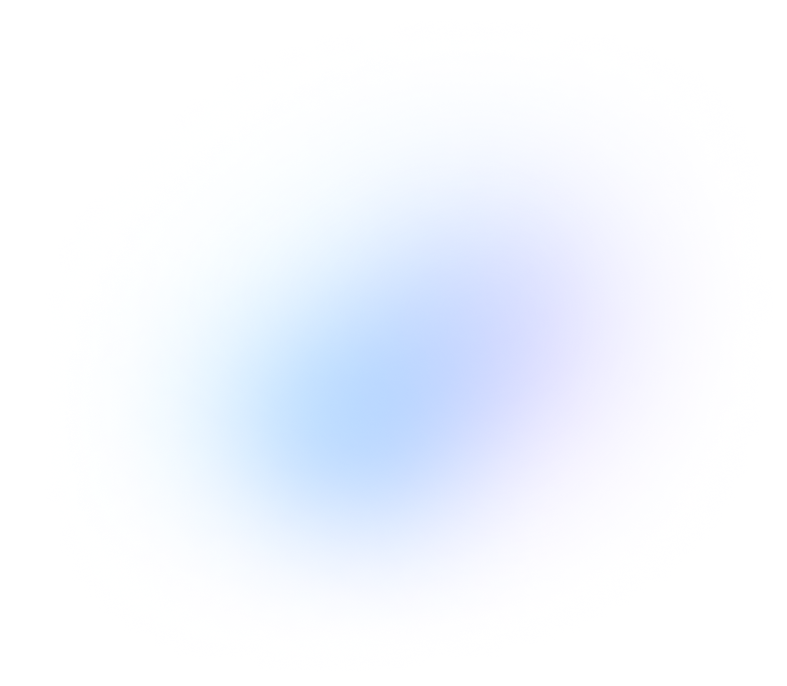
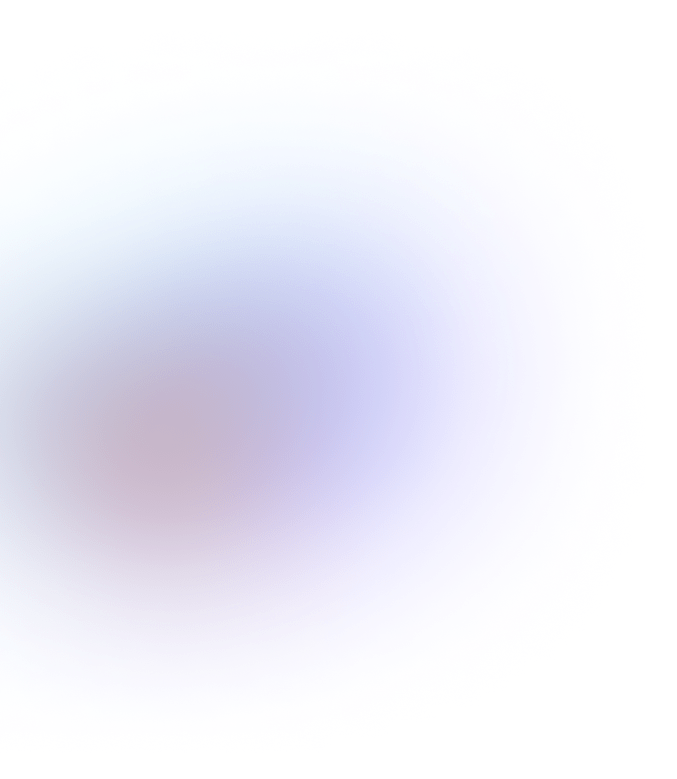
added bgd images for each page

Changed region(s): [[0.0, 0.2755, 0.4963, 0.7959], [0.4343, 0.6122, 0.5583, 0.7347]]

diff --git a/app/[locale]/developers/page.tsx b/app/[locale]/developers/page.tsx
@@ -30,11 +30,12 @@ export default function DevelopersPage() {
         <PageTemplate
             title={t('title')}
             subtitle={t.rich('intro', whiteTrans)}
+            className="bg-[url(/developers.png),url(/page-bgd.png)] bg-[position:right_top,left_bottom]"
         >
             <div className="text-4xl mb-12 text-white font-semibold">
                 {t('milestones')}
             </div>
-            <div className="w-full relative h-[440px]">
+            <div className="w-full relative h-[440px] mb-24">
                 <div className="absolute left-0 lg:left-[-16.67%] top-0 bottom-0 right-0 lg:right-[-16.67%] pb-[100px] flex items-end">
                     <div className="bg-white h-[1px] w-full" />
                 </div>
@@ -44,7 +45,7 @@ export default function DevelopersPage() {
                 <div className="hidden lg:block absolute left-0 lg:left-[-16.67%] top-0 bottom-0 w-1/4 bg-gradient-to-r from-background via-background/95 to-background/0" />
                 <div className="hidden lg:block absolute right-0 lg:right-[-16.67%] top-0 bottom-0 w-1/4 bg-gradient-to-r from-background/0 via-background/95 to-background" />
             </div>
-            <div className="grid gap-12 grid-cols-1 md:grid-cols-2 xl:grid-cols-3 mx-8 2xl:mx-36 py-32 border-t border-t-gray-border mb-32">
+            <div className="grid gap-12 grid-cols-1 md:grid-cols-2 xl:grid-cols-3 mx-8 2xl:mx-36 py-32 border-t border-t-gray-border mb-24">
                 <DeveloperLink 
                     title="Github" 
                     icon={github}

diff --git a/components/layout/PageTemplate.tsx b/components/layout/PageTemplate.tsx
@@ -5,20 +5,16 @@ export default function PageTemplate({
     title,
     subtitle,
     className,
-    unitBgd = false,
     children
 } : {
     title: string,
     subtitle: Translated,
     className?: string,
-    unitBgd?: boolean,
     children: ReactNode
 }) {
 
-    const bgdClass = unitBgd ? 'bg-about bg-100%' : 'bg-page bg-50%'
-
     return (
-        <div className={`${bgdClass} bg-left-top bg-no-repeat px-8 lg:px-36 pt-36 pb-32 ${className}`}>
+        <div className={`bg-[position:right_top,left] bg-no-repeat bg-[length:50%,30%] px-8 lg:px-36 pt-36 pb-32 ${className}`}>
             <div className="font-semibold text-white text-5xl">
                 {title}
             </div>

diff --git a/app/[locale]/community/page.tsx b/app/[locale]/community/page.tsx
@@ -46,6 +46,7 @@ export default function CommunityPage() {
         <PageTemplate 
             title={t('title')}
             subtitle={t.rich('intro', whiteTrans)}
+            className="bg-[url(/community.png),url(/page-bgd.png)]"
         >
             <div className="grid gap-12 grid-cols-1 md:grid-cols-3 mx-8 xl:mx-16 2xl:mx-36 pb-32 border-b border-b-gray-border text-xl text-white">
                 <CommunityLink title={t('discord')} icon={discord} link={discordUrl} />

diff --git a/tailwind.config.js b/tailwind.config.js
@@ -28,8 +28,6 @@ module.exports = {
         'home-top': 'url(/home-top.png)',
         'partners': 'url(/partners-bgd.svg)',
         'index': 'url(/index-bgd.png)',
-        'about': 'url(/about-bgd.png)',
-        'page': 'url(/page-bgd.png)',
         'home-bgd1': 'url(/home-bgd-1.png)',
         'home-bottom': 'url(/home-bottom.png)'
       },

diff --git a/app/[locale]/about/page.tsx b/app/[locale]/about/page.tsx
@@ -11,7 +11,7 @@ export default function AboutPage() {
 
     return (
         <PageTemplate 
-            unitBgd
+            className="bg-[url(/about-the-unit.png),url(/page-bgd.png)]"
             title={t('title')}
             subtitle={t.rich('about-the-unit', whiteTrans)}
         >
